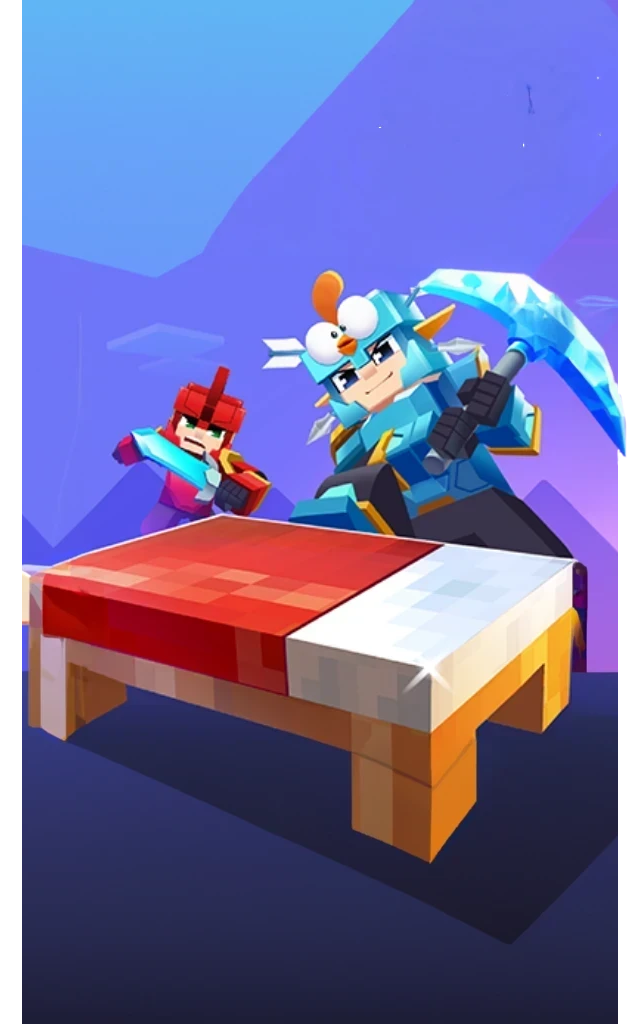
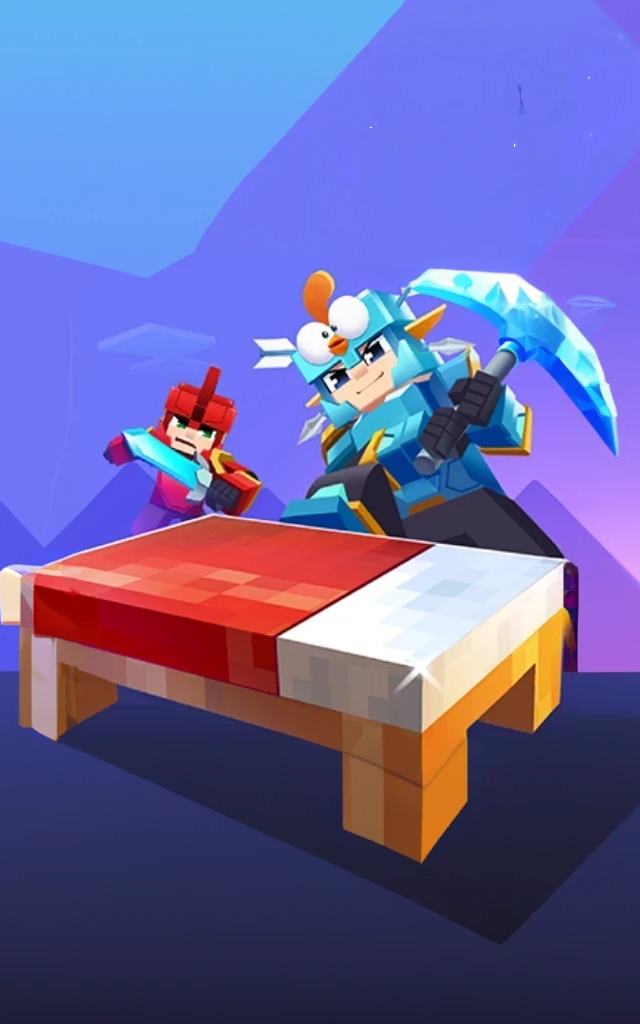
d

diff --git a/style.css b/style.css
@@ -84,6 +84,13 @@ nav img {
     width: 100%;
 }
 
+/* <!--------------------icons to open of close tab--> */
+
+nav .fa {
+    display: none;
+}
+
+
 /* <!--------------------Heading section on home page--> */
 
 .text-box {
@@ -301,63 +308,6 @@ section{
 
 
 
-/* <!--------------------icons to open of close tab--> */
-
-nav .fa {
-    display: none;
-}
-
-
-/* <!--------------------Media queries for screen width 700px for cell phone using --> */
-
-@media(max-width: 700px) {
-
-
-    nav img {
-        margin: 5px;
-        margin-top: 10px;
-        width: 100px;
-    }
-
-    .text-box h1 {
-        font-size: 20px;
-    }
-
-    .text-box p {
-        margin: 10px 0 40px;
-        font-size: 10px;
-        color: rgb(255, 255, 255);
-    }
-
-    .nav-links ul {
-        padding: 30px;
-    }
-
-    .nav-links ul li {
-        display: block;
-    }
-
-    .nav-links {
-        position: fixed;
-        background-color: #ee2727;
-        height: 100vh;
-        width: 200px;
-        top: 0;
-        right: -200px;
-        text-align: left;
-        z-index: 2;
-        transition: 1s;
-    }
-
-    nav .fa {
-        display: block;
-        color: white;
-        margin: 10px;
-        /* padding: 2px; */
-        font-size: 22px;
-        cursor: pointer;
-    }
-}
 
 
 
@@ -507,7 +457,7 @@ nav .fa {
     justify-content: center;
 }
 
-.detail_wrap .right{
+.right{
      display: flex; 
      flex-direction: column;
      padding: 10px;
@@ -521,22 +471,22 @@ nav .fa {
     color: blueviolet;
  }
 
- .detail_wrap .right img{
+ .right img{
     width: 150px;
     border-radius: 20px;
  }
- .detail_wrap .left img{
-    width: 500px;
-    border-radius: 200px;
+.left img{
+    width: 700px;
+    border-radius: 80px;
  }
- .detail_wrap .right .text2_1{
+ .right .text2_1{
     font-size: 60px;
     font-weight: 1000;
-    background: -webkit-linear-gradient(-120deg,rgb(0, 238, 255), rgb(55, 0, 255));
+    background: -webkit-linear-gradient(-120deg,rgb(0, 238, 255), rgb(234, 0, 255));
     -webkit-background-clip: text;
     -webkit-text-fill-color: transparent;
  }
- .detail_wrap .right .text2_2{
+.right .text2_2{
     font-size: 60px;
     font-weight: 1000;
     background: -webkit-linear-gradient(-180deg,rgb(119, 0, 255), rgb(255, 81, 0));
@@ -663,7 +613,7 @@ nav .fa {
     
 }
 .img_preview img{
-    width: 550px;
+    width: 80%;
     display: flex;
     margin: 50px auto 0 auto;
     border-radius: 15px;
@@ -796,5 +746,175 @@ footer a{
     }
     .com{
         padding: 20px 0;
+    }
+}
+/* <!--------------------Media queries for screen width 700px for cell phone using --> */
+
+@media(max-width: 900px) {
+    .area{
+        width: 100vw;
+    }
+    .body{
+        overflow-x: hidden;
+    }
+    *{
+        margin: 0;
+        padding: 0;
+    }
+
+    nav img {
+        margin: 5px;
+        margin-top: 10px;
+        width: 100px;
+    }
+
+    .text-box h1 {
+        font-size: 20px;
+    }
+
+    .text-box p {
+        margin: 10px 0 40px;
+        font-size: 10px;
+        color: rgb(255, 255, 255);
+    }
+
+    .nav-links ul {
+        padding-top: 50px;
+    }
+
+    .nav-links ul li {
+        display: block;
+    }
+    .nav-links ul li a {
+        color: rgb(43, 92, 197);
+    }
+
+    .nav-links {
+        position: fixed;
+        background-color: #c8ebff;
+        height: 100vh;
+        width: 200px;
+        top: 0;
+        right: -200px;
+        text-align: left;
+        z-index: 2;
+        transition: 1s;
+    }
+
+    nav .fa {
+        display: block;
+        color: rgb(58, 58, 58);
+        margin: 10px;
+        /* padding: 2px; */
+        font-size: 22px;
+        cursor: pointer;
+        padding-top: 0px;
+        padding-left: 0%;
+        padding-right: 0%;
+
+    }
+    .main-info .main-text{
+        display: block;
+        width: 100%;
+        justify-content: center;
+    }
+    .main_img{
+        text-align: center;
+    }
+    .main_img img{
+        position: relative;
+        display: flex;
+        width: 500px;
+        
+    }
+    .main-info .main-text h1{
+        padding: 0;
+        font-size: 70px;
+        line-height: 80px;
+        text-align: center;
+        justify-content: center;
+    }
+    .discover h1{
+        font-size: 30px;
+    }
+    .discover{
+        padding: 0;
+        height: fit-content;
+    }
+    .box_zone{ 
+        display: block;
+        width: 100vw;
+        
+    }
+    .box:nth-child(1){
+        width: 80%;
+        margin-bottom: 80px;
+        margin: auto;
+    }
+    .box{
+        width: 80%;
+        margin: auto;
+        margin-top: 100px;
+        margin-bottom: 60px;
+    }
+    .discover img{
+        display: block;
+        width: 70%;
+        margin: auto;
+    }
+    .detail_wrap{
+        display:block;
+    }
+    .detail_wrap .left{
+        width: 100%;
+        margin-top: 150px;
+    }
+    .detail_wrap .left img{
+        display: block;
+        width: 300px;
+        margin: auto;
+    }
+    .detail_wrap .right{
+        width: 100%;
+        text-align: center;
+        margin: auto;
+        height: fit-content;
+        
+    }
+    .detail_wrap .right img{
+        display: none;
+        margin: 0px auto 0px auto;
+        
+    }
+    .download_info{
+        width: 100%;
+        margin: 0;
+        padding: 0 10% 0 10%;
+    }
+    .context_box {
+        width: 100%;
+        height: fit-content;
+    }
+    .img_preview{
+        margin-top: 80px;
+        width: 100%;
+        height: 300px;
+    }
+    .img_preview img{
+        width: 95%;
+    }
+    .feature_zone{
+        width: 100%;
+        margin: 0;
+    }
+    .feature_zone .feature{
+        width: 100%;
+        margin: 0;
+        padding: 0 50px 0 50px;
+        height: fit-content;
+    }
+    .feature_zone .feature img{
+        width: 30%;
+        
     }
 }

diff --git a/index.html b/index.html
@@ -49,7 +49,6 @@
                 <ul>
                     <li class="nav-items"><a href="download.html">Download</a></li>
                     <li class="nav-items"><a href="games.html">Games</a></li>
-                    
                     <li class="nav-items"><a href="login.html">Login</a></li>
                 </ul>
             </div>
@@ -87,7 +86,7 @@
     <section>
         <div class="detail_wrap">
         <div class="left">
-            <img src="assets/bedwar.png" alt="">
+            <img src="assets/bedwar2.png" alt="">
         </div>
         <div class="right">
             <img src="assets/bedic.png" alt="">
@@ -103,7 +102,7 @@
     <section>
         <div class="detail_wrap">
             <div class="left">
-                <img src="assets/freecity.png" alt="">
+                <img src="assets/freecity2.png" alt="">
             </div>
             <div class="right">
                 <img src="assets/freeic.png" alt="">
@@ -162,7 +161,7 @@
         navLinks.style.right = "0";
     }
     function hideMenu() {
-        navLinks.style.right = "-200px";
+        navLinks.style.right = "-300px";
     }
 </script>
 
